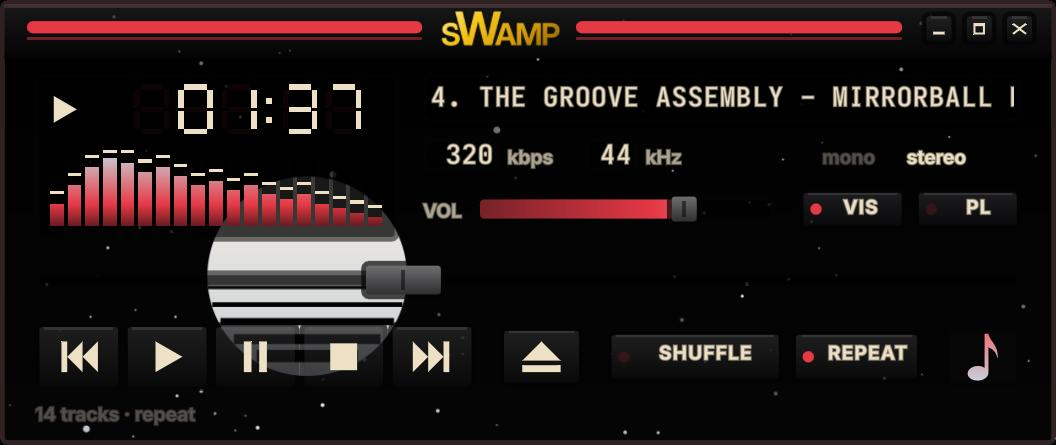
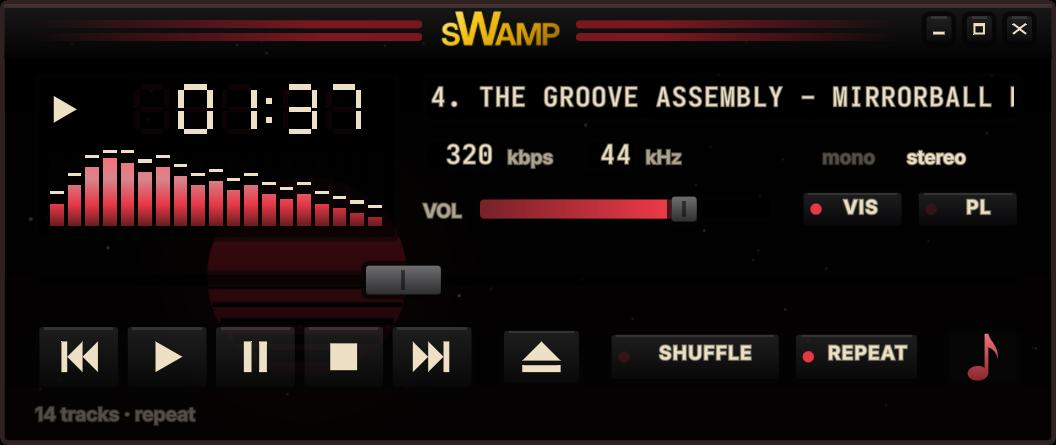
Night Drive in black and near-black red; new README skin trio
- Night Drive: background reds darkened to almost black, white stars and
  road lines nearly invisible; title bar uses a new "double" stripe style
  (two dark red bars fading out towards the edges).
- README: the skin trio now shows Surf Shack, Velvet Lounge and Gruvbox.

diff --git a/app/TitleBar.qml b/app/TitleBar.qml
@@ -25,8 +25,8 @@ Item {
   readonly property string style: Skin.s.stripes
   // the two decorated spans, left and right of the label
   readonly property var spans: [
-    { x: t.showLogo ? 18 : 6, w: Math.max(0, label.x - (t.showLogo ? 22 : 10)) },
-    { x: label.x + label.width + 4, w: Math.max(0, btnRow.x - (label.x + label.width + 4) - 5) }
+    { x: t.showLogo ? 18 : 6, w: Math.max(0, label.x - (t.showLogo ? 22 : 10)), side: 0 },
+    { x: label.x + label.width + 4, w: Math.max(0, btnRow.x - (label.x + label.width + 4) - 5), side: 1 }
   ]
 
   Rectangle {
@@ -56,6 +56,29 @@ Item {
       // solid: one bar with an underline
       Rectangle { visible: t.style === "solid"; y: 4.5; width: parent.width; height: 3.2; radius: Skin.s.radius > 0 ? 1.6 : 0; color: t.ca }
       Rectangle { visible: t.style === "solid"; y: 8.6; width: parent.width; height: 0.7; color: t.cb }
+      // double: two bars that fade out towards the outer ends
+      Repeater {
+        model: t.style === "double" ? 2 : 0
+        Rectangle {
+          id: dbar
+          required property int index
+          readonly property color c: index ? t.cb : t.ca
+          readonly property color fade: Qt.rgba(c.r, c.g, c.b, 0)
+          readonly property bool onLeft: parent.modelData.side === 0
+          y: 4.3 + index * 3.3
+          width: parent.width
+          height: 2.1
+          radius: Skin.s.radius > 0 ? 1 : 0
+          gradient: Gradient {
+            orientation: Gradient.Horizontal
+            GradientStop { position: 0; color: dbar.fade }
+            GradientStop { position: 0.75; color: dbar.c }
+            GradientStop { position: 1; color: dbar.c }
+          }
+          // the right-hand span fades the other way
+          transform: Scale { origin.x: dbar.width / 2; xScale: dbar.onLeft ? 1 : -1 }
+        }
+      }
       // dots: two rows of speaker-grille dots
       Repeater {
         model: t.style === "dots" ? Math.floor(parent.width / 2.4) * 2 : 0

diff --git a/app/skins/art/gen.py b/app/skins/art/gen.py
@@ -750,17 +750,19 @@ def blackvinyl():
 
 
 def nightdrive():
+    # black with near-black reds; the whites are only a faint trace
     s = Svg(42)
-    s.rect(s.lin([(0, "#000000"), (1, "#0d0d10")]))
-    s.stars(150, 0, 170, ("#eef0f3", "#c9ced6"))
-    striped_sun(s, 80, 72, 26, s.lin([(0, "#f3efe4"), (1, "#c9ced6")]), "#000000", 5, 0.1)
-    band(s, ["#7a0f1a", "#e63946", "#c9ced6", "#eef0f3"], 128, 10, 2.0, 4, 0.02, 0.05, 0.9)
-    s.ridge(232, 196, 7, "#121216")
-    s.path(f"M0 232 L{W} 232", extra='stroke="#e63946" stroke-width="0.6" opacity="0.8"')
-    s.rect("#070708", 0, 232, W, H - 232)
+    s.rect(s.lin([(0, "#000000"), (1, "#0a0506")]))
+    s.stars(90, 0, 170, ("#2e2a2c", "#3a3436"), big=0.0, amin=0.3)
+    s.glow(80, 72, 46, "#e63946", 0.05)
+    striped_sun(s, 80, 72, 26, s.lin([(0, "#3d0b10"), (1, "#1c0407")]), "#000000", 5, 0.1)
+    band(s, ["#120305", "#1a0407", "#24060a", "#300a0e"], 128, 10, 2.0, 4, 0.02, 0.05, 0.9)
+    s.ridge(232, 196, 7, "#0c0a0b")
+    s.path(f"M0 232 L{W} 232", extra='stroke="#e63946" stroke-width="0.6" opacity="0.25"')
+    s.rect("#050405", 0, 232, W, H - 232)
     for i in range(6):
         y = 238 + i * 9
-        s.rect("#c9ced6", 130 - i * 3, y, 15 + i * 6, 1.2, 'opacity="0.35"')
+        s.rect("#c9ced6", 130 - i * 3, y, 15 + i * 6, 1.2, 'opacity="0.06"')
     return s
 
 

diff --git a/README.md b/README.md
@@ -6,7 +6,7 @@ A gold **sWAMP** button in the Omarchy bar opens it, brings it to you or minimiz
 
 ![sWamp with the Disco Fever skin](docs/main.png)
 
-<p align="center"><img src="docs/skins-trio.png" alt="Night Drive, Jukebox and VHS skins"></p>
+<p align="center"><img src="docs/skins-trio.png" alt="Surf Shack, Velvet Lounge and Gruvbox skins"></p>
 
 ## Install
 
